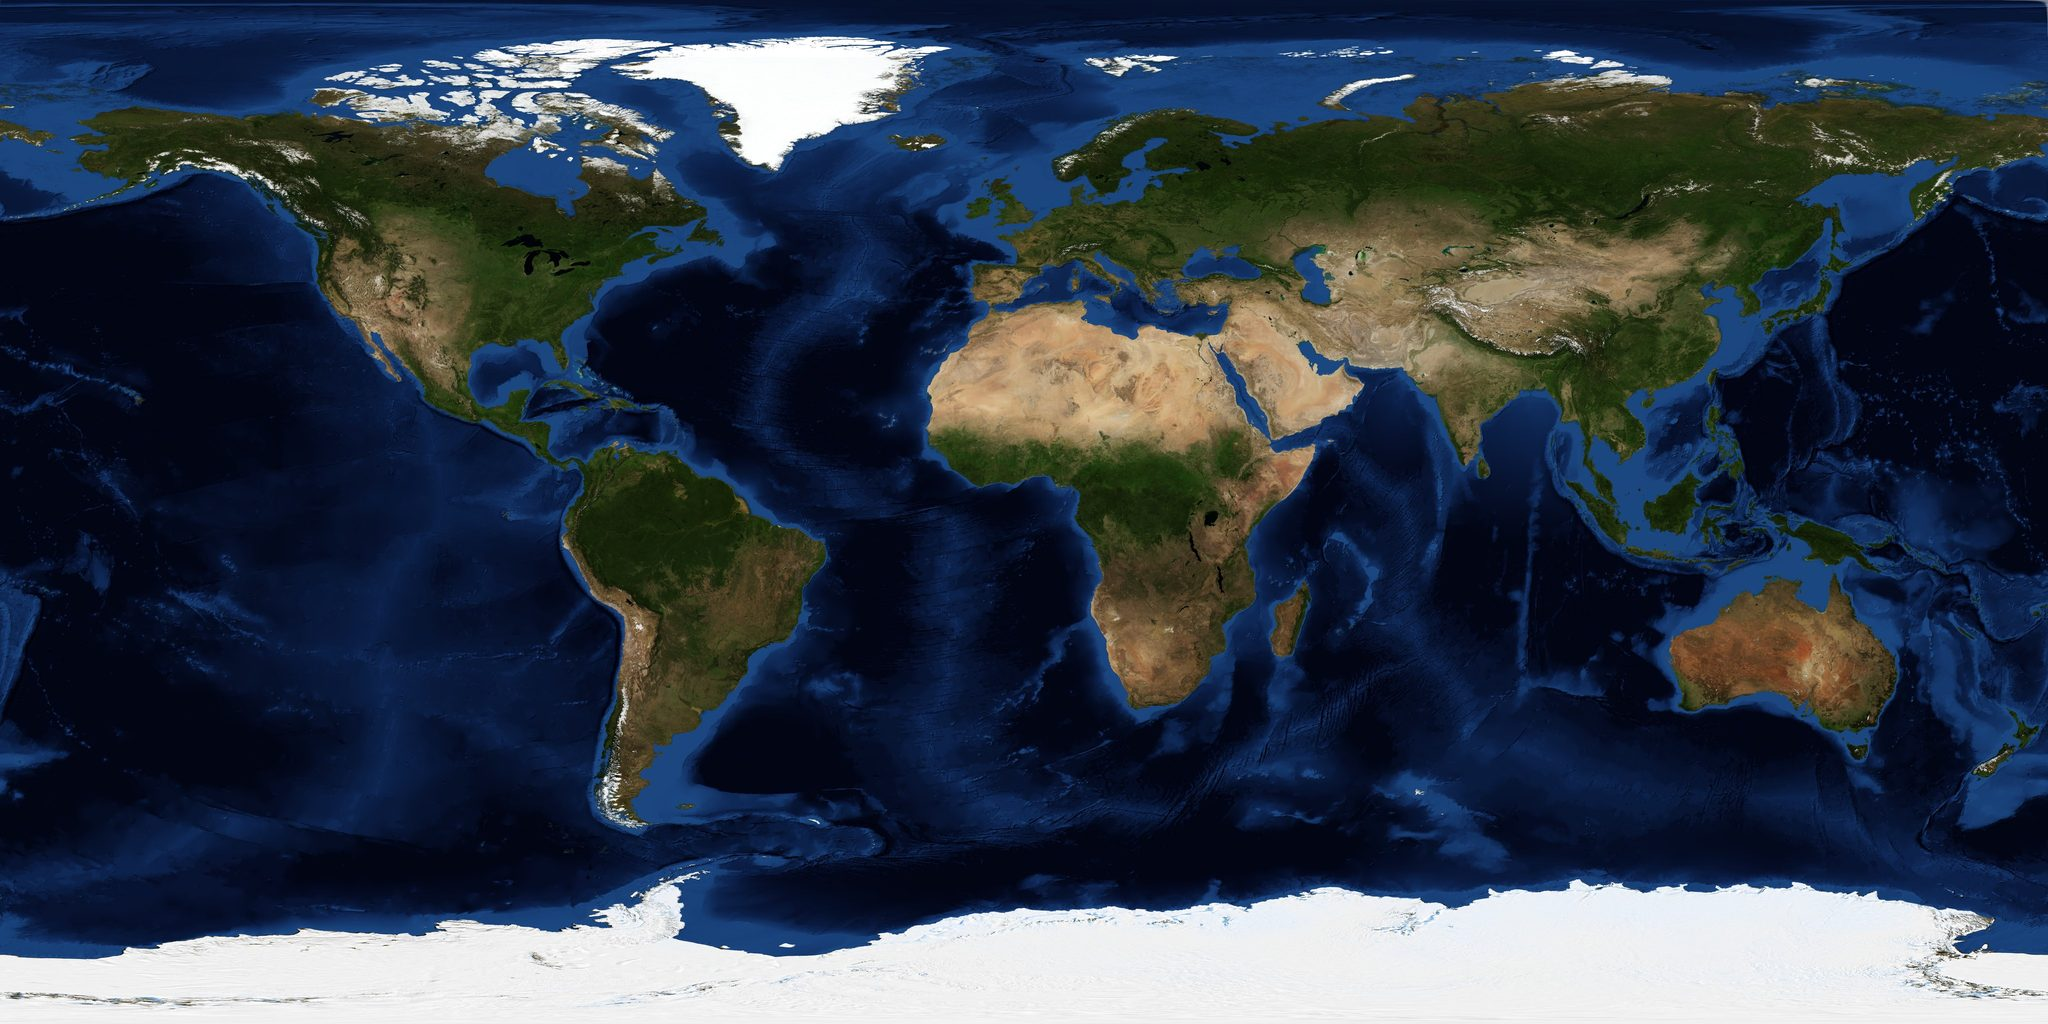
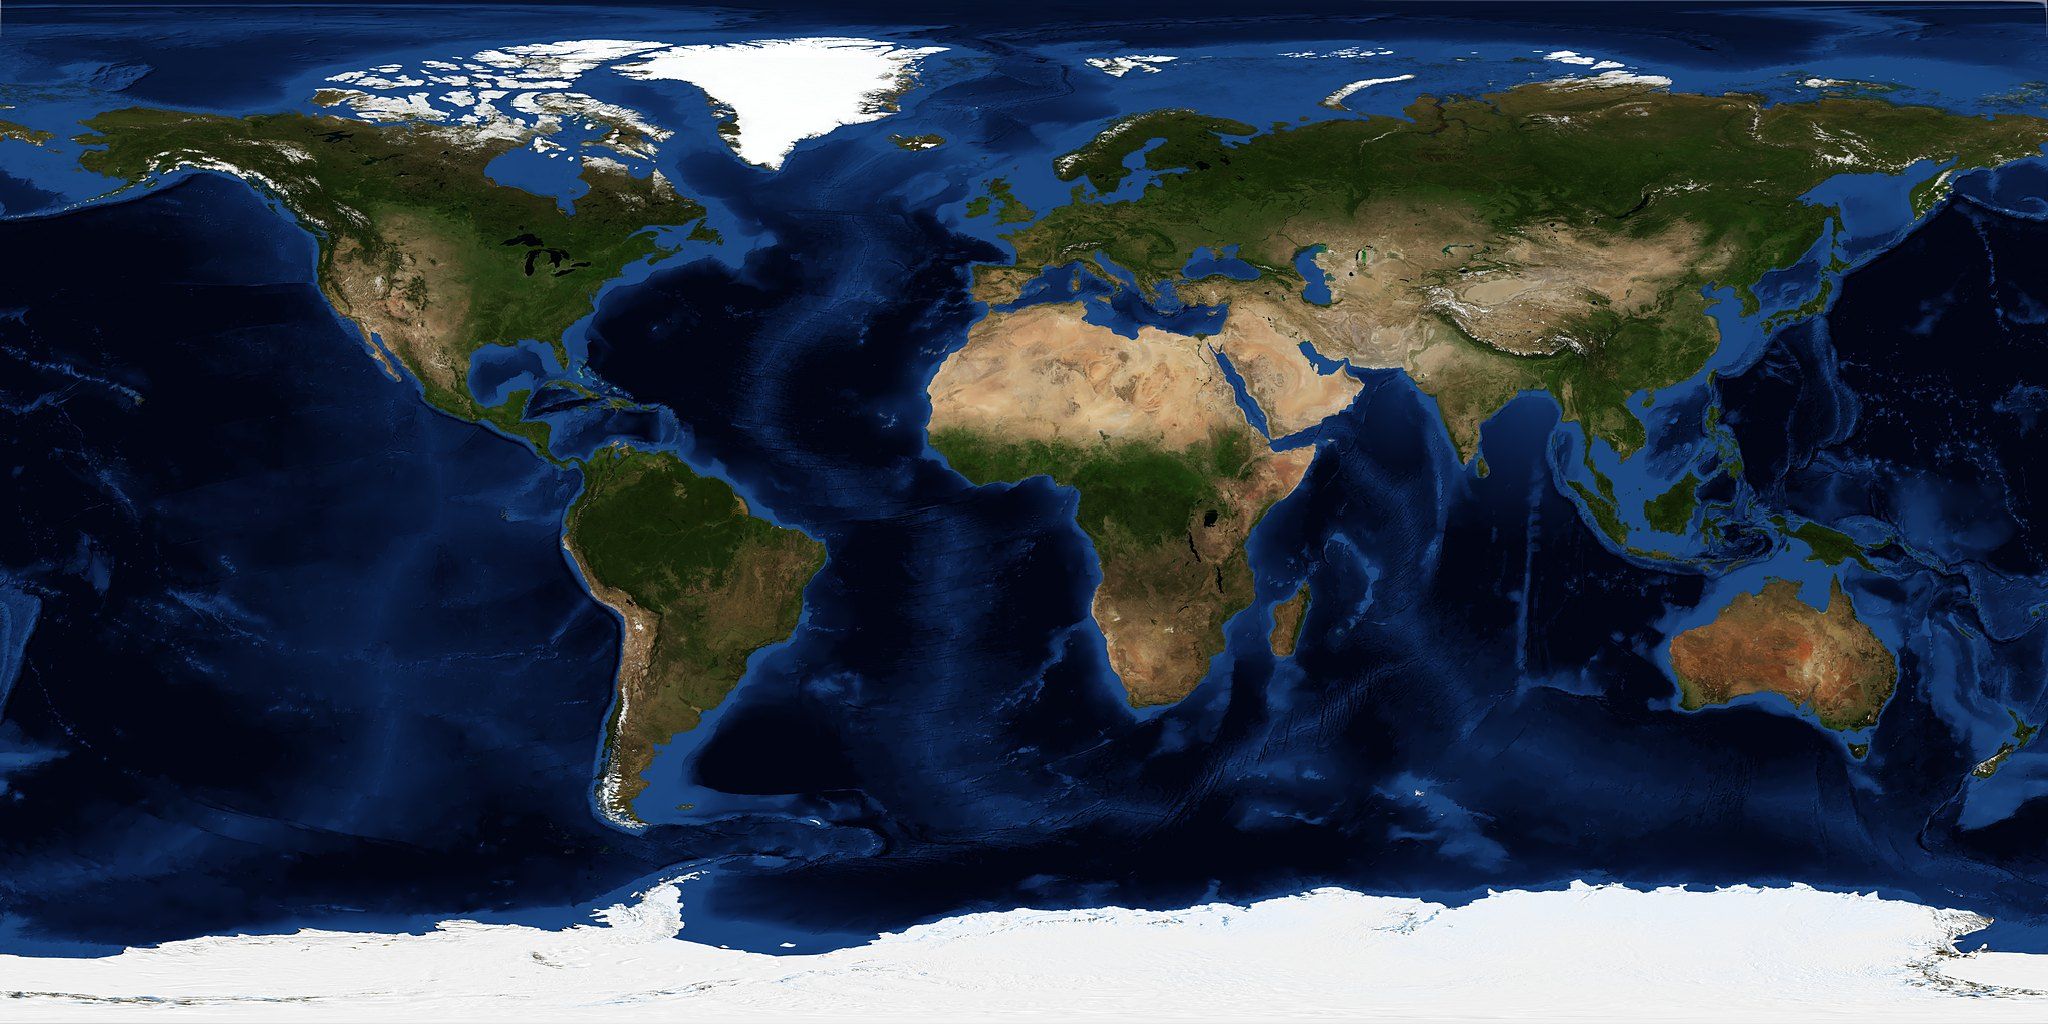
Portada: globo más nítido (texturas 4K en ordenador y 2K en móvil a partir de las teselas de 16K de la NASA, más resolución y un poco más de contraste); bajo el botón, «7 días gratis con todo · Sin tarjeta · Sin cuenta» y enlace al precio de cada país
Claude-Session: https://claude.ai/code/session_01JPTHaAJ66ttUdrgcLwMZzx

diff --git a/globo.js b/globo.js
@@ -72,7 +72,8 @@
       ' col+=vec3(1.0,0.86,0.66)*(pow(nh,900.0)*0.32+pow(nh,90.0)*0.05+pow(nh,12.0)*0.012)*agua*lado;\n' +
       ' col+=vec3(0.02,0.06,0.13)*agua*lado*0.6;\n' +
       ' float fres=pow(1.0-max(dot(nw,V),0.0),2.6); vec3 atm=vec3(0.28,0.55,1.0)*fres*(0.08+0.92*smoothstep(-0.3,0.45,mu));\n' +
-      ' col=col*(1.0-fres*0.35)+atm*0.85; col=aces(col*1.3); o=vec4(pow(col,vec3(1.0/2.2)),1.0); }';
+      ' col=col*(1.0-fres*0.35)+atm*0.85; col=aces(col*1.36); float lu=dot(col,vec3(0.2126,0.7152,0.0722)); col=clamp(mix(vec3(lu),col,1.12),0.0,1.0);\n' +
+      ' col=pow(col,vec3(1.0/2.2)); col=clamp((col-0.5)*1.06+0.5,0.0,1.0); o=vec4(col,1.0); }';
 
     function compila(tipo, src) { var s = gl.createShader(tipo); gl.shaderSource(s, src); gl.compileShader(s); if (!gl.getShaderParameter(s, gl.COMPILE_STATUS)) throw new Error(gl.getShaderInfoLog(s)); return s; }
     var P = gl.createProgram();
@@ -102,13 +103,15 @@
       return t;
     }
     var tex = { dia: textura(null), luces: textura(null), agua: textura(null) }, listas = 0;
-    var tam = movil ? '-1k' : '-2k';
+    // Sharp on every screen (the owner, 17 Oct 2026: «un pelín borroso… máxima calidad»): 4K
+    // textures on computers, 2K on phones, both from NASA's 16K tiles; 2K if the GPU can't take 4K.
+    var tam = movil || gl.getParameter(gl.MAX_TEXTURE_SIZE) < 4096 ? '-2k' : '-4k';
     function carga(clave, url) {
       var im = new Image(); im.decoding = 'async';
       im.onload = function () { gl.deleteTexture(tex[clave]); tex[clave] = textura(im); cambio = true; listas++; if (listas === 3 && op.lista) op.lista(); pide(); };
       im.src = url;
     }
-    carga('dia', ruta + 'dia' + tam + '.jpg'); carga('luces', ruta + 'luces' + tam + '.jpg'); carga('agua', ruta + (movil ? 'agua-1k.png' : 'agua.png'));
+    carga('dia', ruta + 'dia' + tam + '.jpg'); carga('luces', ruta + 'luces' + tam + '.jpg'); carga('agua', ruta + 'agua.png');
 
 
     // --- routes: drawn on a 2D layer over the globe, projected with the same matrices ---
@@ -179,11 +182,13 @@
       function libre(x, y, w) { for (var i = 0; i < puestos.length; i++) { var q = puestos[i]; if (x < q[0] + q[2] && x + w > q[0] && Math.abs(y - q[1]) < 13 * dpr) return false; } puestos.push([x, y, w]); return true; }
       var o = proy(v3(R.origen.ll[0], R.origen.ll[1]));
       if (!o.oculto) puestos.push([o.x - 8 * dpr, o.y, 90 * dpr]);
-      rutas.forEach(function (r) {
-        var p = proy(r.b); if (p.oculto || p.cara < 0.15) return;
+      var puntos = rutas.map(function (r) { return proy(r.b); });
+      rutas.forEach(function (r, ir) {
+        var p = puntos[ir]; if (p.oculto || p.cara < 0.15) return;
         var al = Math.min(1, (p.cara - 0.15) / 0.3);
         ctx.strokeStyle = 'rgba(201,223,242,' + (0.75 * al).toFixed(3) + ')'; ctx.lineWidth = 1 * dpr; ctx.beginPath(); ctx.arc(p.x, p.y, 2.6 * dpr, 0, 2 * Math.PI); ctx.stroke();
-        if (libre(p.x + 7 * dpr, p.y, ctx.measureText(r.n).width)) { ctx.fillStyle = 'rgba(190,200,210,' + (0.9 * al).toFixed(3) + ')'; ctx.fillText(r.n, p.x + 7 * dpr, p.y); }
+        var anc = ctx.measureText(r.n).width, choca = puntos.some(function (q, iq) { return iq !== ir && !q.oculto && q.x > p.x && q.x < p.x + 9 * dpr + anc && Math.abs(q.y - p.y) < 9 * dpr; });
+        if (!choca && libre(p.x + 7 * dpr, p.y, anc)) { ctx.fillStyle = 'rgba(190,200,210,' + (0.9 * al).toFixed(3) + ')'; ctx.fillText(r.n, p.x + 7 * dpr, p.y); }
       });
       if (!o.oculto && o.cara > 0.1) {
         ctx.fillStyle = 'rgba(232,236,241,0.95)'; ctx.beginPath(); ctx.arc(o.x, o.y, 3 * dpr, 0, 2 * Math.PI); ctx.fill();
@@ -197,7 +202,7 @@
     var rot = -lon0 * RAD + (R ? 0 : 0.35), tilt = op.tilt != null ? op.tilt : 0.32, vr = 0, vt = 0, tocado = false;
 
     function dibuja() {
-      var dpr = Math.min(window.devicePixelRatio || 1, 2), W = Math.round(cv.clientWidth * dpr), H = Math.round(cv.clientHeight * dpr);
+      var dpr = Math.min(window.devicePixelRatio || 1, 2.5), W = Math.round(cv.clientWidth * dpr), H = Math.round(cv.clientHeight * dpr);
       if (!W || !H) return;
       if (cv.width !== W || cv.height !== H) { cv.width = W; cv.height = H; }
       gl.viewport(0, 0, W, H); gl.clearColor(0, 0, 0, 0); gl.clear(gl.COLOR_BUFFER_BIT | gl.DEPTH_BUFFER_BIT);

diff --git a/index.html b/index.html
@@ -32,7 +32,7 @@
 <script>(function(){try{var K='guardiana-idioma',q=null;try{q=localStorage.getItem(K)}catch(e){}if(!q){var L=(navigator.languages&&navigator.languages.length)?navigator.languages:[navigator.language||''];for(var i=0;i<L.length;i++){var c=(''+L[i]).toLowerCase();if(c.indexOf('pt')===0){q='pt';break}if(c.indexOf('es')===0){q='es';break}if(c.indexOf('en')===0){q='en';break}}}var p=location.pathname;if((q==='es'||q==='pt')&&(p==='/'||p==='/index.html'))location.replace('/'+q+'/'+location.hash);}catch(e){}})();</script>
 <link rel="preload" as="font" type="font/woff" crossorigin href="/fonts/SchibstedGrotesk-var.woff">
 <link rel="preload" as="font" type="font/woff" crossorigin href="/fonts/HankenGrotesk-var.woff">
-<link rel="stylesheet" href="/portada.css?v=1792294892">
+<link rel="stylesheet" href="/portada.css?v=1792295066">
 </head>
 <body>
 <a class="saltar" href="#contenido">Skip to content</a>
@@ -63,7 +63,8 @@
       <a class="btn btn-acento btn-gr" href="/en/install.html#download">Download GUARDIANA</a>
       <a class="btn btn-borde btn-gr" href="#preguntas">See why</a>
     </div>
-    <p class="nota">7 days with everything, no card, no account and no automatic charge when they end. <span id="hero-precio">Then a subscription or a one-time payment.</span></p>
+    <ul class="garantias"><li><svg width="14" height="14" viewBox="0 0 14 14" aria-hidden="true"><path d="M3 7.3l2.6 2.6L11 4.5" fill="none" stroke="#6CCBA5" stroke-width="1.8" stroke-linecap="round" stroke-linejoin="round"/></svg>7 days free, everything included</li><li><svg width="14" height="14" viewBox="0 0 14 14" aria-hidden="true"><path d="M3 7.3l2.6 2.6L11 4.5" fill="none" stroke="#6CCBA5" stroke-width="1.8" stroke-linecap="round" stroke-linejoin="round"/></svg>No card</li><li><svg width="14" height="14" viewBox="0 0 14 14" aria-hidden="true"><path d="M3 7.3l2.6 2.6L11 4.5" fill="none" stroke="#6CCBA5" stroke-width="1.8" stroke-linecap="round" stroke-linejoin="round"/></svg>No account</li></ul>
+    <p class="nota"><a href="#planes">See the price in your country</a></p>
   </div>
   <figure class="hero-globo">
     <div class="globo-marco">
@@ -198,7 +199,7 @@
     <p class="pie-dir">GUARDIANA · guardianagroup.com · Torre Empresarial PRODEGI, piso 18, Bocagrande, Cartagena de Indias, Colombia · <a href="mailto:hola@guardianagroup.com">hola@guardianagroup.com</a> · This page uses no cookies or analytics.</p>
   </div>
 </footer>
-<script src="/globo.js?v=1792294892" defer></script>
+<script src="/globo.js?v=1792295066" defer></script>
 <script>
 document.addEventListener('DOMContentLoaded',function(){
   try{var P=window.GUARDIANA_PRICES;if(P){var a=document.getElementById('plus-precio'),b=document.getElementById('plus-nota'),f=document.getElementById('fund-precio'),h=document.getElementById('hero-precio');if(a)a.textContent=P.plusEn;if(b)b.textContent=P.plusNoteEn;if(f)f.textContent=P.fundEn;if(h)h.textContent='Then '+P.plusEn+' or '+P.fundEn+' once.';}}catch(e){}

diff --git a/pt/index.html b/pt/index.html
@@ -32,7 +32,7 @@
 
 <link rel="preload" as="font" type="font/woff" crossorigin href="/fonts/SchibstedGrotesk-var.woff">
 <link rel="preload" as="font" type="font/woff" crossorigin href="/fonts/HankenGrotesk-var.woff">
-<link rel="stylesheet" href="/portada.css?v=1792294892">
+<link rel="stylesheet" href="/portada.css?v=1792295066">
 </head>
 <body>
 <a class="saltar" href="#contenido">Pular para o conteúdo</a>
@@ -63,7 +63,8 @@
       <a class="btn btn-acento btn-gr" href="/pt/instalar.html#baixar">Baixar a GUARDIANA</a>
       <a class="btn btn-borde btn-gr" href="#preguntas">Ver por quê</a>
     </div>
-    <p class="nota">7 dias com tudo, sem cartão nem conta e sem cobrança automática no fim. <span id="hero-precio">Depois, assinatura ou pagamento único.</span></p>
+    <ul class="garantias"><li><svg width="14" height="14" viewBox="0 0 14 14" aria-hidden="true"><path d="M3 7.3l2.6 2.6L11 4.5" fill="none" stroke="#6CCBA5" stroke-width="1.8" stroke-linecap="round" stroke-linejoin="round"/></svg>7 dias grátis com tudo</li><li><svg width="14" height="14" viewBox="0 0 14 14" aria-hidden="true"><path d="M3 7.3l2.6 2.6L11 4.5" fill="none" stroke="#6CCBA5" stroke-width="1.8" stroke-linecap="round" stroke-linejoin="round"/></svg>Sem cartão</li><li><svg width="14" height="14" viewBox="0 0 14 14" aria-hidden="true"><path d="M3 7.3l2.6 2.6L11 4.5" fill="none" stroke="#6CCBA5" stroke-width="1.8" stroke-linecap="round" stroke-linejoin="round"/></svg>Sem conta</li></ul>
+    <p class="nota"><a href="#planes">Ver o preço no seu país</a></p>
   </div>
   <figure class="hero-globo">
     <div class="globo-marco">
@@ -198,7 +199,7 @@
     <p class="pie-dir">GUARDIANA · guardianagroup.com · Torre Empresarial PRODEGI, piso 18, Bocagrande, Cartagena de Indias, Colombia · <a href="mailto:hola@guardianagroup.com">hola@guardianagroup.com</a> · Esta página não usa cookies nem análises.</p>
   </div>
 </footer>
-<script src="/globo.js?v=1792294892" defer></script>
+<script src="/globo.js?v=1792295066" defer></script>
 <script>
 document.addEventListener('DOMContentLoaded',function(){
   try{var P=window.GUARDIANA_PRICES;if(P){var a=document.getElementById('plus-precio'),b=document.getElementById('plus-nota'),f=document.getElementById('fund-precio'),h=document.getElementById('hero-precio');if(a)a.textContent=P.plusPt;if(b)b.textContent=P.plusNotePt;if(f)f.textContent=P.fundPt;if(h)h.textContent='Depois, '+P.plusPt+' ou '+P.fundPt+' uma única vez.';}}catch(e){}

diff --git a/es/index.html b/es/index.html
@@ -32,7 +32,7 @@
 
 <link rel="preload" as="font" type="font/woff" crossorigin href="/fonts/SchibstedGrotesk-var.woff">
 <link rel="preload" as="font" type="font/woff" crossorigin href="/fonts/HankenGrotesk-var.woff">
-<link rel="stylesheet" href="/portada.css?v=1792294892">
+<link rel="stylesheet" href="/portada.css?v=1792295066">
 </head>
 <body>
 <a class="saltar" href="#contenido">Saltar al contenido</a>
@@ -63,7 +63,8 @@
       <a class="btn btn-acento btn-gr" href="/instalar.html#descargar">Descargar GUARDIANA</a>
       <a class="btn btn-borde btn-gr" href="#preguntas">Ver por qué</a>
     </div>
-    <p class="nota">7 días con todo, sin tarjeta ni cuenta y sin cobro automático al terminar. <span id="hero-precio">Después, suscripción o pago único.</span></p>
+    <ul class="garantias"><li><svg width="14" height="14" viewBox="0 0 14 14" aria-hidden="true"><path d="M3 7.3l2.6 2.6L11 4.5" fill="none" stroke="#6CCBA5" stroke-width="1.8" stroke-linecap="round" stroke-linejoin="round"/></svg>7 días gratis con todo</li><li><svg width="14" height="14" viewBox="0 0 14 14" aria-hidden="true"><path d="M3 7.3l2.6 2.6L11 4.5" fill="none" stroke="#6CCBA5" stroke-width="1.8" stroke-linecap="round" stroke-linejoin="round"/></svg>Sin tarjeta</li><li><svg width="14" height="14" viewBox="0 0 14 14" aria-hidden="true"><path d="M3 7.3l2.6 2.6L11 4.5" fill="none" stroke="#6CCBA5" stroke-width="1.8" stroke-linecap="round" stroke-linejoin="round"/></svg>Sin cuenta</li></ul>
+    <p class="nota"><a href="#planes">Ver el precio en tu país</a></p>
   </div>
   <figure class="hero-globo">
     <div class="globo-marco">
@@ -198,7 +199,7 @@
     <p class="pie-dir">GUARDIANA · guardianagroup.com · Torre Empresarial PRODEGI, piso 18, Bocagrande, Cartagena de Indias, Colombia · <a href="mailto:hola@guardianagroup.com">hola@guardianagroup.com</a> · Esta página no usa cookies ni analíticas.</p>
   </div>
 </footer>
-<script src="/globo.js?v=1792294892" defer></script>
+<script src="/globo.js?v=1792295066" defer></script>
 <script>
 document.addEventListener('DOMContentLoaded',function(){
   try{var P=window.GUARDIANA_PRICES;if(P){var a=document.getElementById('plus-precio'),b=document.getElementById('plus-nota'),f=document.getElementById('fund-precio'),h=document.getElementById('hero-precio');if(a)a.textContent=P.plus;if(b)b.textContent=P.plusNote;if(f)f.textContent=P.fund;if(h)h.textContent='Después, '+P.plus+' o '+P.fund+' una sola vez.';}}catch(e){}

diff --git a/portada.css b/portada.css
@@ -163,3 +163,7 @@ h2{font-weight:700;font-size:clamp(32px,4vw,52px);line-height:1.05;letter-spacin
 .onda{display:flex;align-items:center;gap:2px;height:22px}.onda i{display:block;width:2px;border-radius:1px;background:#9CC3E4;opacity:.8}
 .tarjeta .dato{margin-top:auto;padding-top:14px;border-top:1px solid #141B24;font-size:14.5px;color:#A9B3BE}
 .tarjeta .dato b{color:#E8ECF1;font-weight:600}
+.garantias{list-style:none;padding:0;margin:22px 0 0;display:flex;flex-wrap:wrap;gap:8px 22px;color:#C3CBD4;font-size:15px}
+.garantias li{display:flex;align-items:center;gap:7px}
+.hero .nota a,.nota a{color:#A9B3BE;text-underline-offset:3px}
+.nota a:hover{color:#E8ECF1}
